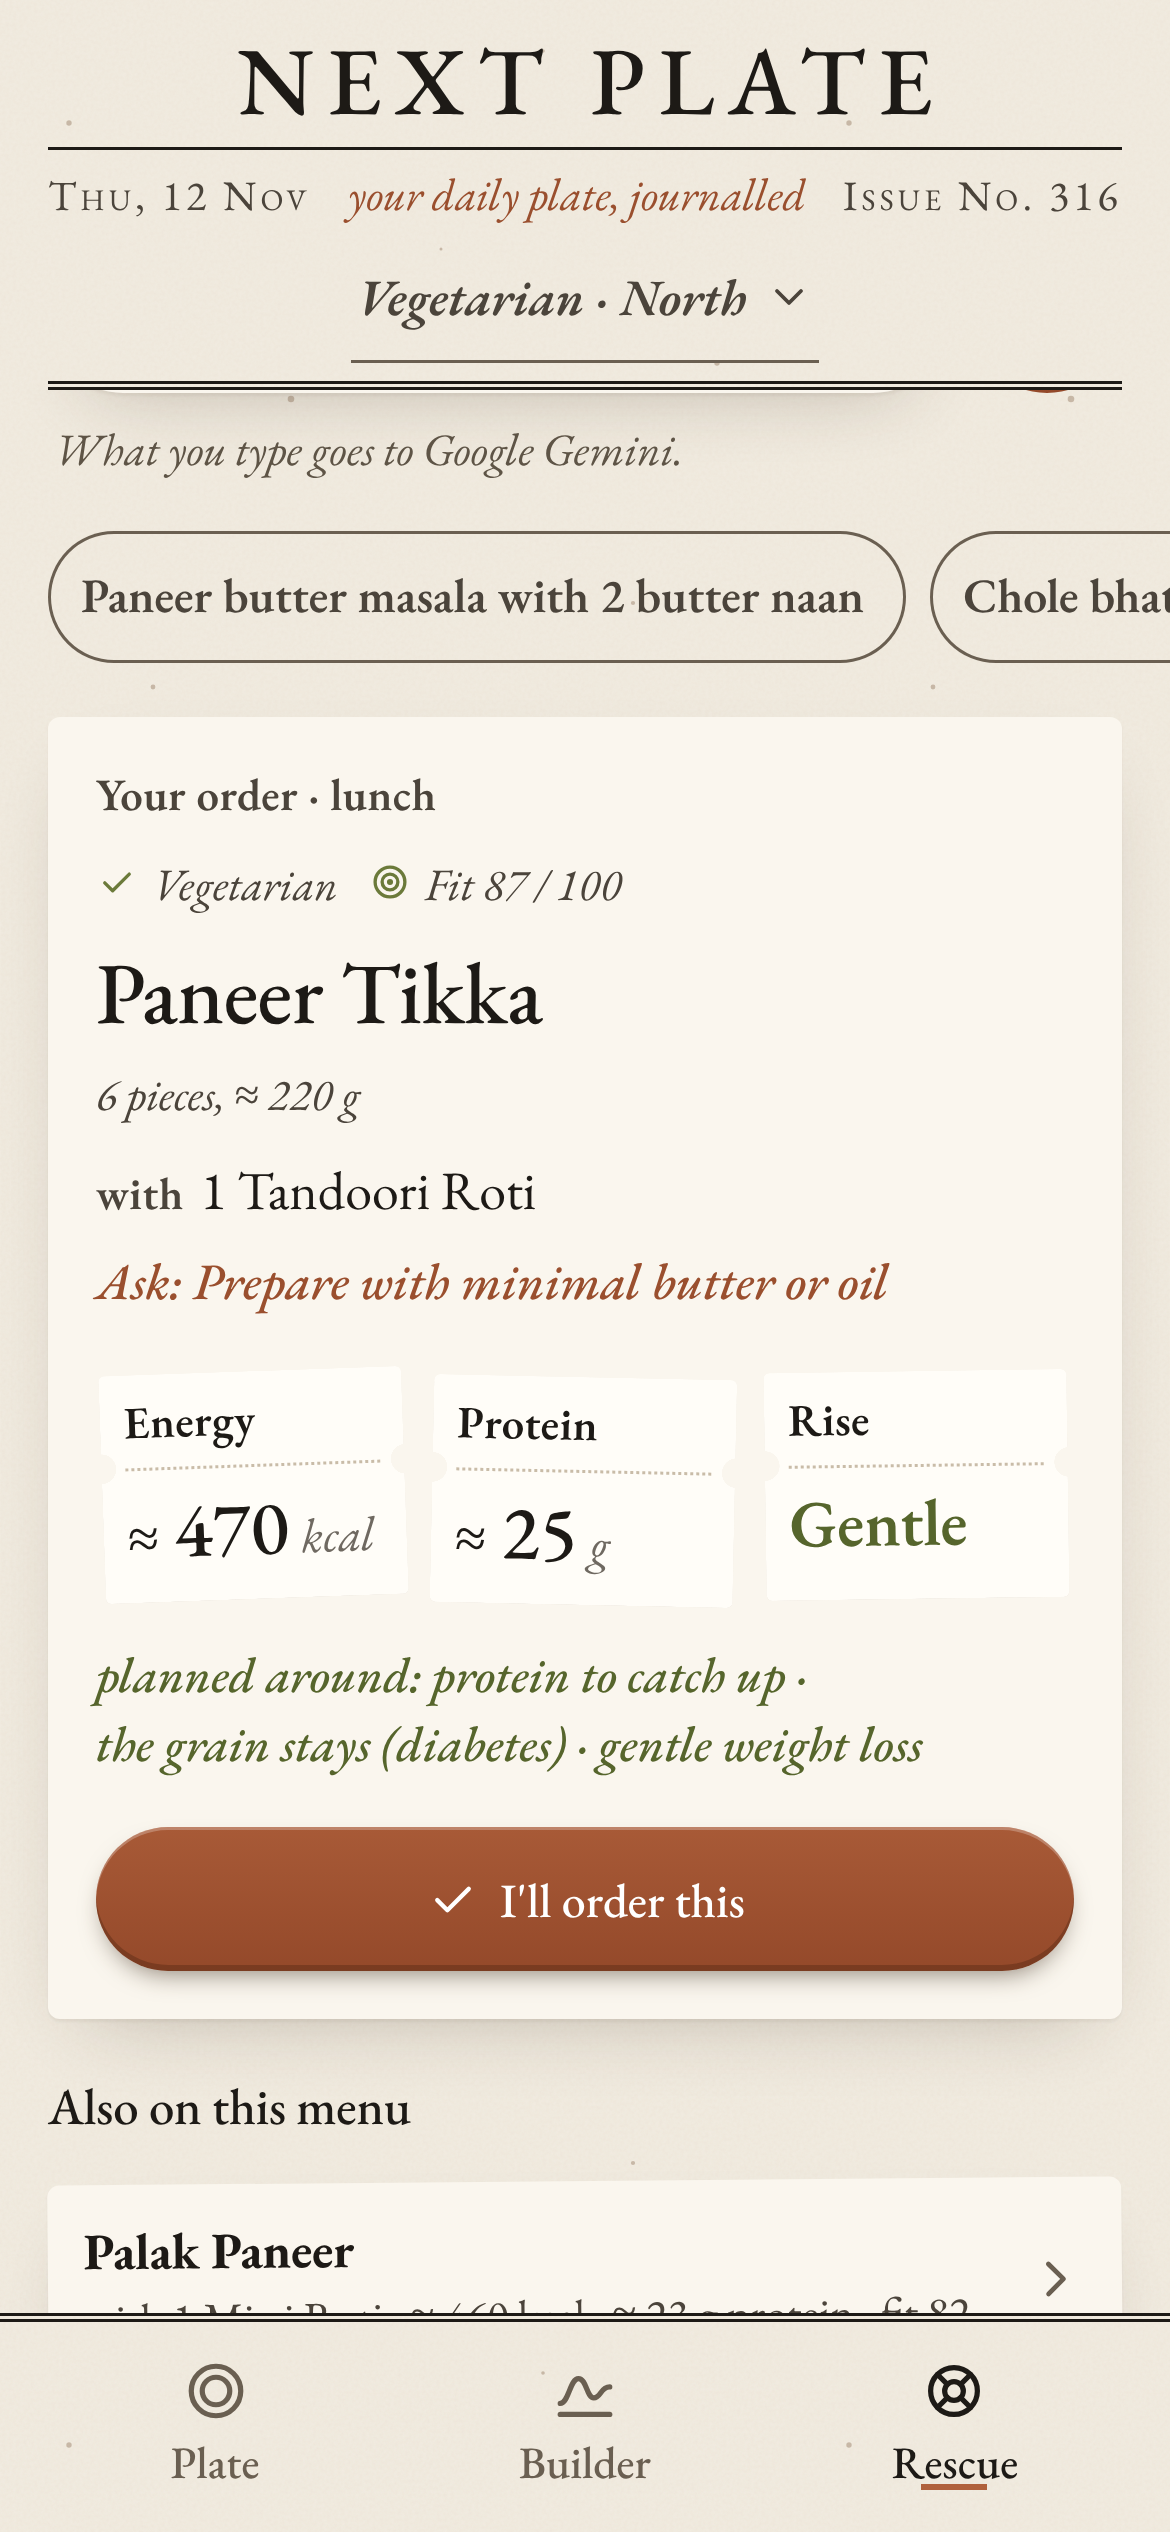
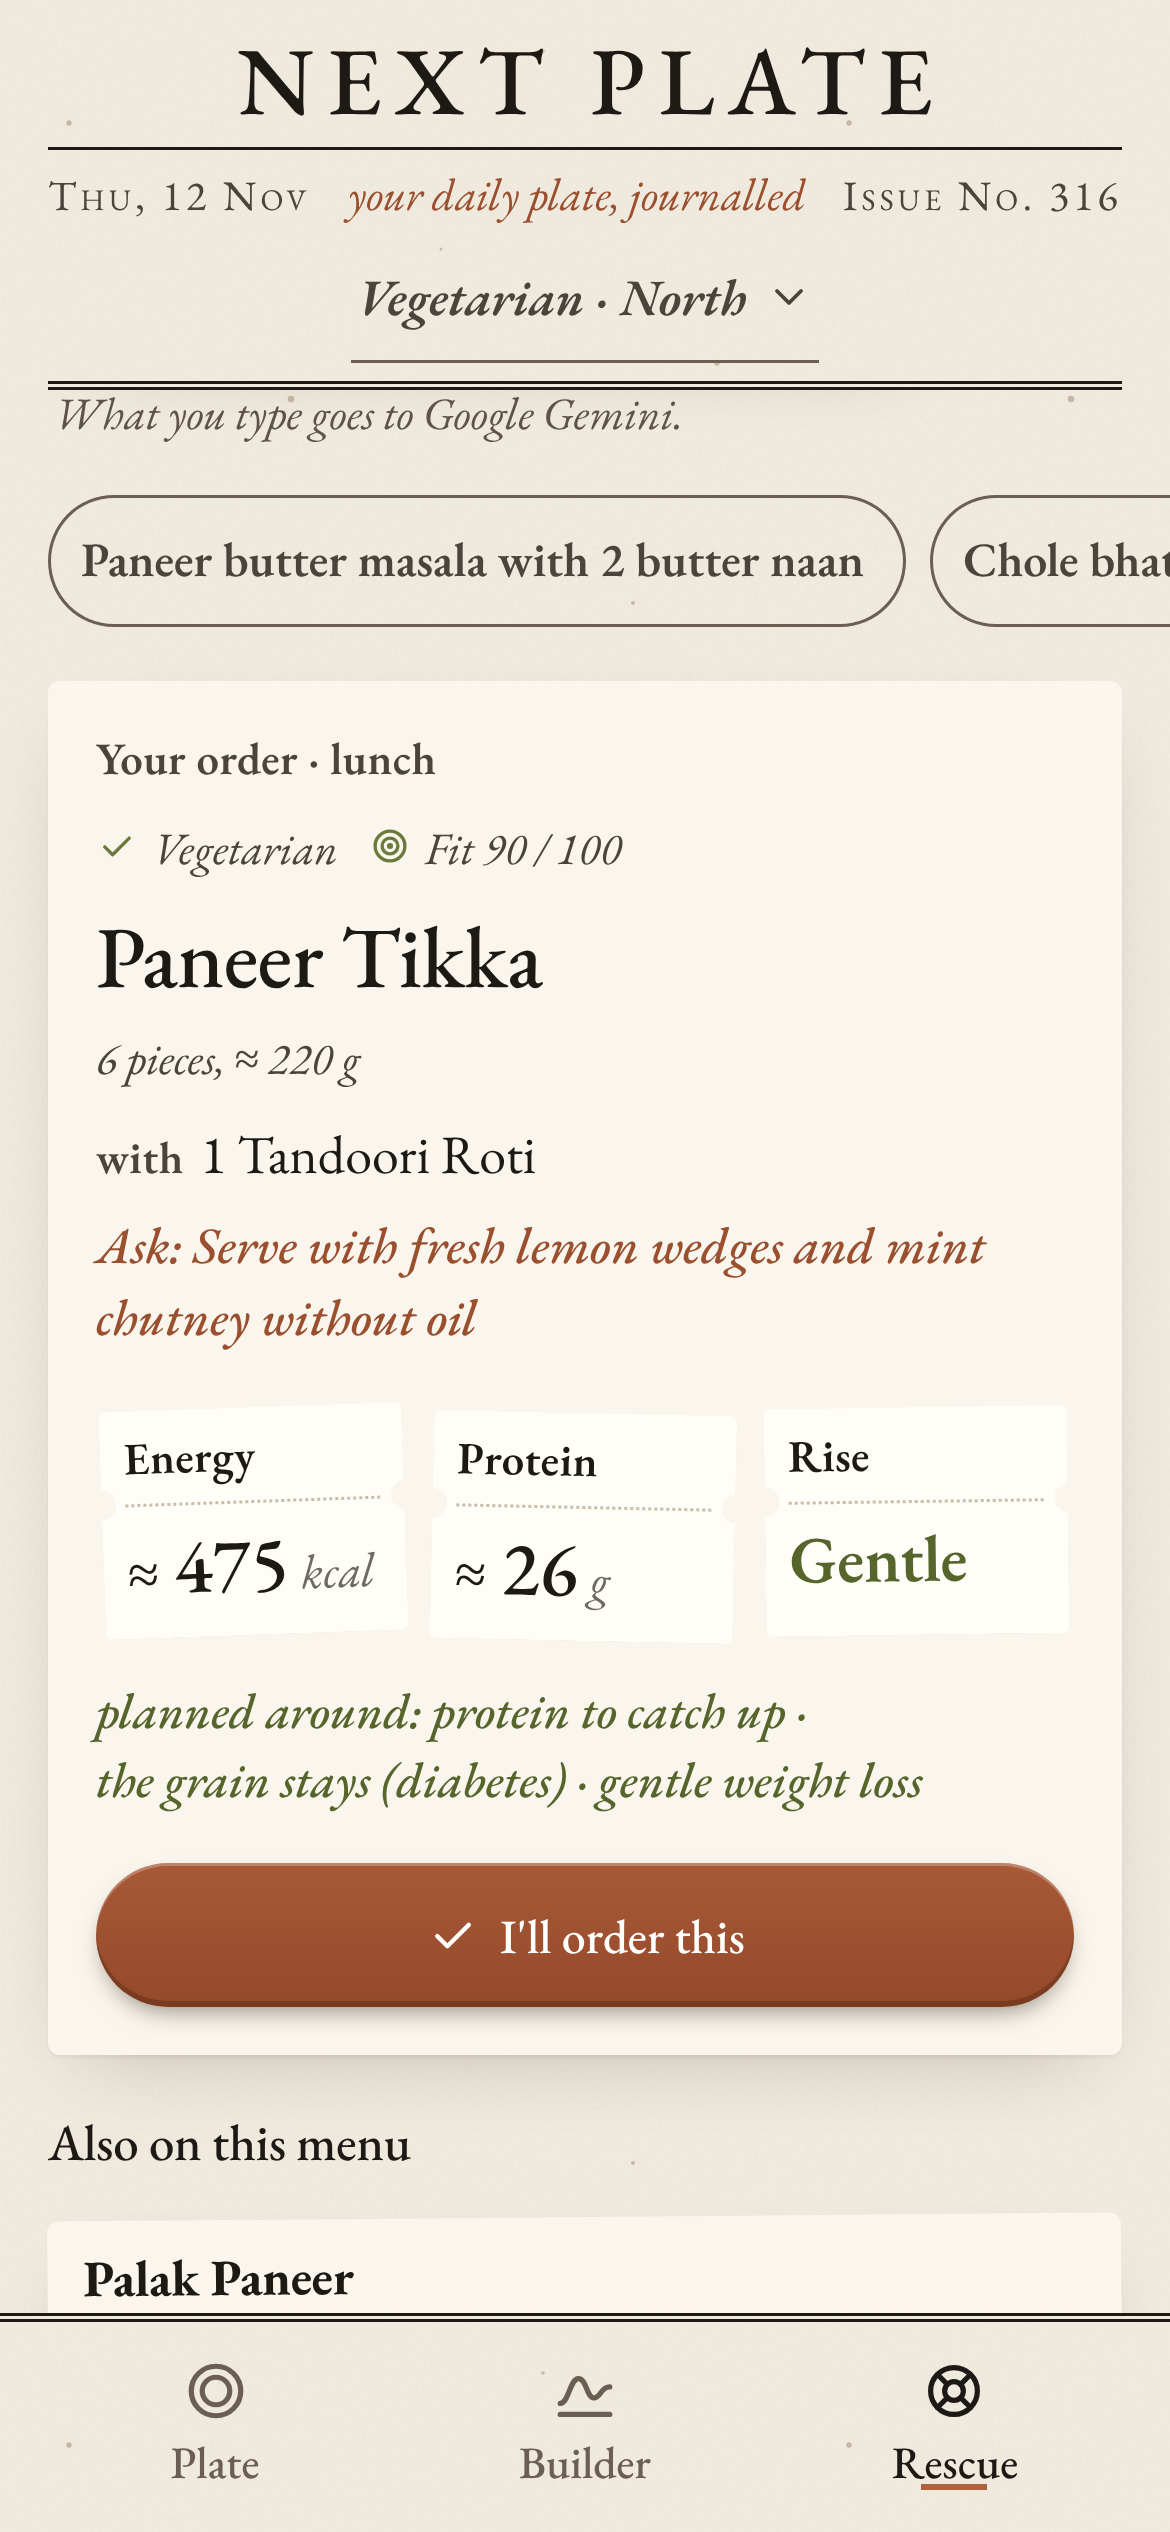
51 s film: Rescue menu scene re-captured from the current app with the live engine (Fit score reads 'Fit 88 / 100'); order-card lift matched to the new card height
Claude-Session: https://claude.ai/code/session_01LviQGzd7MBYsENmLvF6HqQ

diff --git a/demo/reel/film5/film.js b/demo/reel/film5/film.js
@@ -87,7 +87,7 @@ function phone(ctx, t, IMG) {
 const LIFTS = [
   ['s03', [16, 126, 358, 194], 2.4, 5.8, 980, 1130],
   ['ph', [0, 0, 400, 533.3], 10.0, 11.9, 720, 1150],
-  ['m3', [16, 142, 358, 434], 12.3, 14.4, 880, 1180],
+  ['m3', [16, 142, 358, 458], 12.3, 14.4, 880, 1180],
   ['d1', [0, 604, 390, 240], 16.9, 17.8, 980, 1150],
   ['d2', [0, 391, 390, 340], 18.3, 19.3, 980, 1150],
   ['d3', [8, 406, 322, 88], 19.8, 21.6, 940, 1100],
